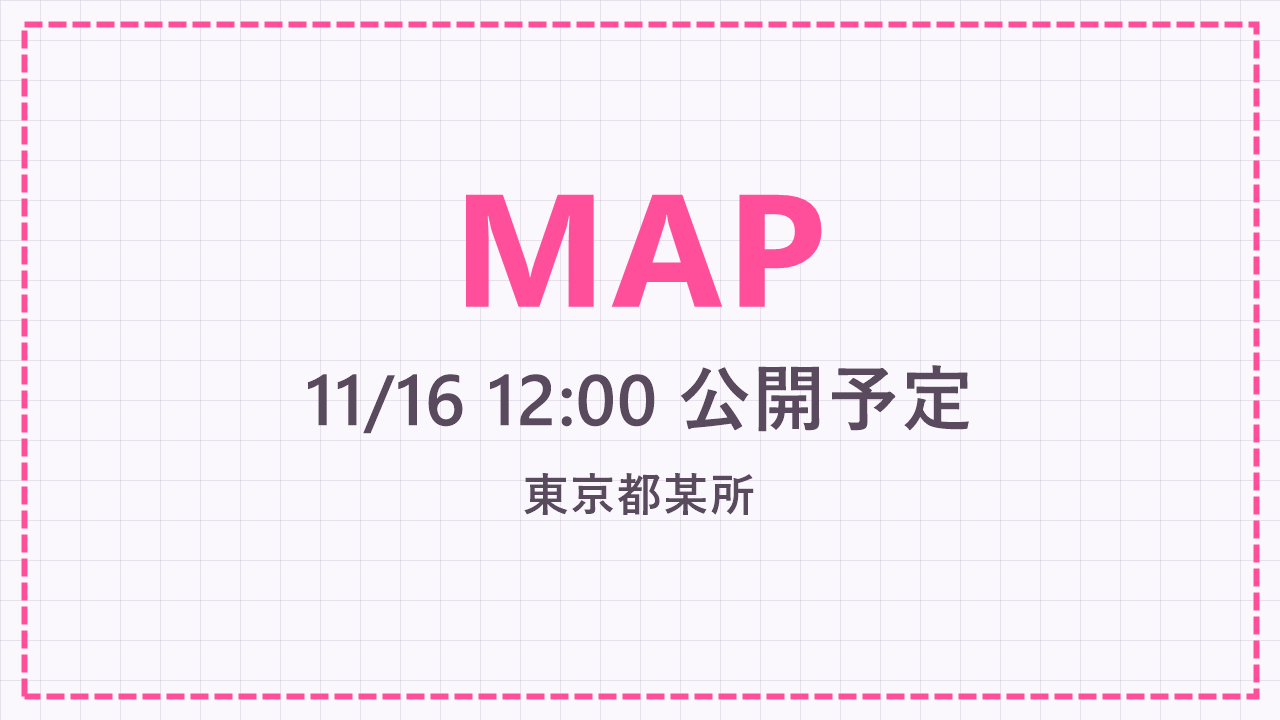
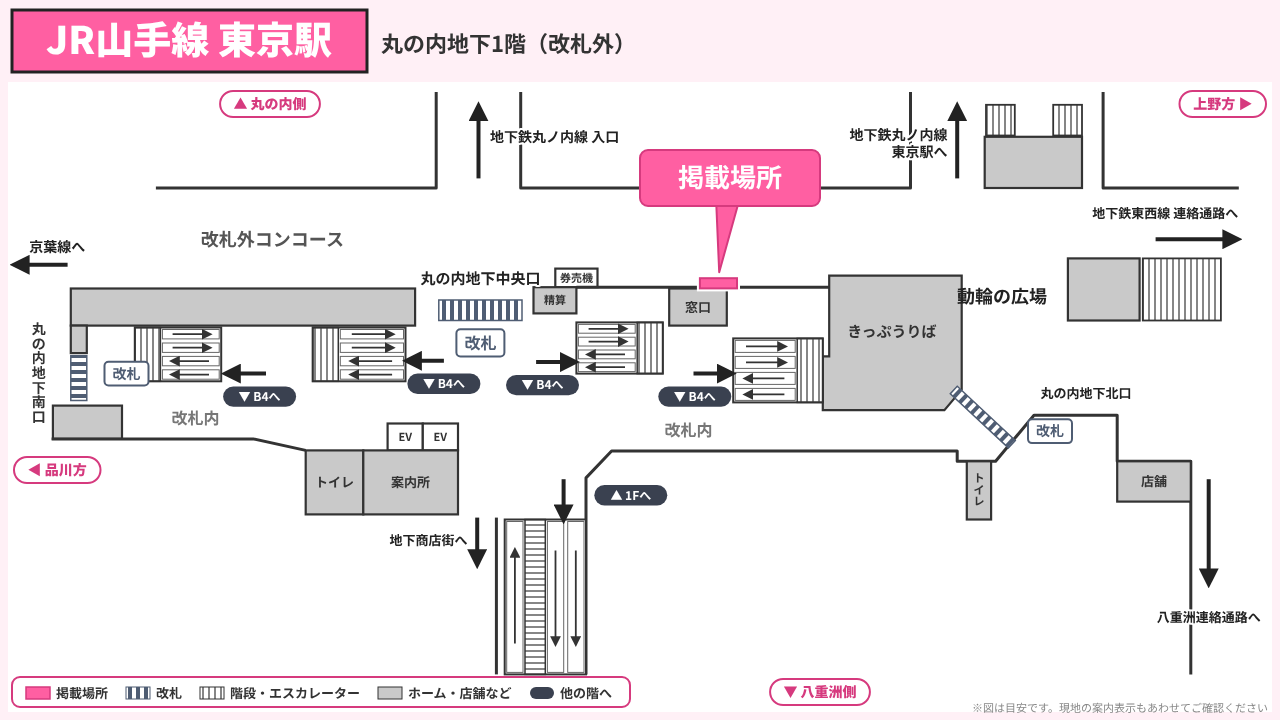
[本番用] 掲出場所の表記・掲出場所マップ・駅広告イラストを本番の内容に戻す
11/16 12:00 以降に main へ取り込む（README_RELEASE.md 参照）。
このコミットとこのブランチは、それまで絶対に push しないこと。

Changed region(s): [[0.0, 0.0, 1.0, 1.0], [0.1562, 0.3056, 0.2812, 0.3667]]

diff --git a/pages/information/index.html b/pages/information/index.html
@@ -56,68 +56,81 @@
   <main>
     <div class="section-head">
       <h1 class="section-head__title"><span aria-hidden="true">📝</span>駅広告などのお知らせ</h1>
-      <p class="section-head__lead">駅広告の掲出期間は以下の通りです！！<br>掲出場所の詳細は、掲出当日（11/16）12:00以降に公開予定です。</p>
+      <p class="section-head__lead">駅広告の掲出場所や掲出期間は以下の通りです！！</p>
     </div>
 
-    <!-- 掲出場所マップ（掲出当日まではプレースホルダー画像） -->
+    <!-- 駅ごとの掲出場所マップ（画像は images/stations/ の同名ファイルを差し替え） -->
+    <!-- 注意書き：改札外（きっぷ不要）は station-card__caution--free、改札内は --ticket -->
     <div class="station-list">
       <figure class="station-card">
         <a class="station-card__zoom" href="../../images/stations/map-kanagawa.png" data-lightbox>
-          <img class="station-card__img" src="../../images/stations/map-kanagawa.png" alt="神奈川県某所の掲出場所マップ（11/16 12:00公開予定）" width="1280" height="720" loading="lazy">
+          <img class="station-card__img" src="../../images/stations/map-kanagawa.png" alt="JR横浜駅の掲出場所マップ（北改札内コンコース）" width="1280" height="720" loading="lazy">
           <span class="station-card__zoom-hint">画像をタップすると拡大できます</span>
         </a>
         <figcaption>
-          <p class="station-card__place">神奈川県某所</p>
+          <p class="station-card__place">JR横浜駅</p>
           <dl class="station-card__info">
             <div>
               <dt>場所</dt>
-              <dd>掲出当日（11/16）12:00以降に公開予定です</dd>
+              <dd>
+                北改札内コンコース（改札内）
+                <span class="station-card__detail">北改札を入った北改札内コンコースの西口側、9・10番線（横須賀線）ホームへのエスカレーター付近の壁面</span>
+              </dd>
             </div>
             <div>
               <dt>日程</dt>
               <dd>2026/11/16～2026/11/22</dd>
             </div>
           </dl>
+          <p class="station-card__caution station-card__caution--ticket">※改札内のため、入場券などが必要です</p>
         </figcaption>
       </figure>
 
       <figure class="station-card">
         <a class="station-card__zoom" href="../../images/stations/map-tokyo.png" data-lightbox>
-          <img class="station-card__img" src="../../images/stations/map-tokyo.png" alt="東京都某所の掲出場所マップ（11/16 12:00公開予定）" width="1280" height="720" loading="lazy">
+          <img class="station-card__img" src="../../images/stations/map-tokyo.png" alt="JR山手線 東京駅の掲出場所マップ（丸の内地下1階）" width="1280" height="720" loading="lazy">
           <span class="station-card__zoom-hint">画像をタップすると拡大できます</span>
         </a>
         <figcaption>
-          <p class="station-card__place">東京都某所</p>
+          <p class="station-card__place">JR山手線 東京駅</p>
           <dl class="station-card__info">
             <div>
               <dt>場所</dt>
-              <dd>掲出当日（11/16）12:00以降に公開予定です</dd>
+              <dd>
+                丸の内地下1階（改札外）
+                <span class="station-card__detail">丸の内地下中央口改札を出て右手、動輪の広場方面へ進んだ窓口側の壁面</span>
+              </dd>
             </div>
             <div>
               <dt>日程</dt>
               <dd>2026/11/16～2026/11/22</dd>
             </div>
           </dl>
+          <p class="station-card__caution station-card__caution--free">※改札外のため、きっぷなしでご覧いただけます</p>
         </figcaption>
       </figure>
 
       <figure class="station-card">
         <a class="station-card__zoom" href="../../images/stations/map-aichi.png" data-lightbox>
-          <img class="station-card__img" src="../../images/stations/map-aichi.png" alt="愛知県某所の掲出場所マップ（11/16 12:00公開予定）" width="1280" height="720" loading="lazy">
+          <img class="station-card__img" src="../../images/stations/map-aichi.png" alt="JR東海 名古屋駅の掲出場所マップ（中央通路）" width="1280" height="720" loading="lazy">
           <span class="station-card__zoom-hint">画像をタップすると拡大できます</span>
         </a>
         <figcaption>
-          <p class="station-card__place">愛知県某所</p>
+          <p class="station-card__place">JR東海 名古屋駅</p>
           <dl class="station-card__info">
             <div>
               <dt>場所</dt>
-              <dd>掲出当日（11/16）12:00以降に公開予定です</dd>
+              <dd>
+                中央通路（改札内）
+                <span class="station-card__detail">中央口改札を入った中央通路、3・4番線と1・2番線の階段の間の壁面（桜通口寄り）</span>
+              </dd>
             </div>
             <div>
               <dt>日程</dt>
               <dd>2026/11/16～2026/11/22</dd>
             </div>
           </dl>
+          <p class="station-card__caution station-card__caution--ticket">※改札内のため、入場券などが必要です</p>
         </figcaption>
       </figure>
     </div>

diff --git a/pages/illust/index.html b/pages/illust/index.html
@@ -4,13 +4,13 @@
   <meta charset="UTF-8">
   <meta name="viewport" content="width=device-width, initial-scale=1">
   <title>駅広告イラスト｜菅叶和応援広告企画2026</title>
-  <meta name="description" content="菅叶和応援広告企画2026｜神奈川県某所・東京都某所・愛知県某所の駅広告イラストを掲載しています。">
+  <meta name="description" content="菅叶和応援広告企画2026｜横浜・東京・名古屋の駅広告イラストを掲載しています。">
 
   <!-- OGP -->
   <meta property="og:type" content="article">
   <meta property="og:site_name" content="菅叶和応援広告企画2026">
   <meta property="og:title" content="駅広告イラスト｜菅叶和応援広告企画2026">
-  <meta property="og:description" content="神奈川県某所・東京都某所・愛知県某所の駅広告イラストを掲載しています。">
+  <meta property="og:description" content="横浜・東京・名古屋の駅広告イラストを掲載しています。">
   <meta property="og:url" content="https://kannkannkikaku.github.io/KannkannBirthday2026/pages/illust/">
   <meta property="og:image" content="https://kannkannkikaku.github.io/KannkannBirthday2026/images/ogp.png">
   <meta name="twitter:card" content="summary_large_image">
@@ -62,25 +62,25 @@
     <!-- 駅ごとのイラスト（画像は images/stations/ の同名ファイルを差し替え） -->
     <div class="station-list">
       <figure class="station-card">
-        <img class="station-card__img" src="../../images/stations/ad-kanagawa.png" alt="神奈川県某所の駅広告イラスト" width="1414" height="1000" loading="lazy">
+        <img class="station-card__img" src="../../images/stations/ad-kanagawa.jpg" alt="JR横浜駅の駅広告イラスト" width="1414" height="1000" loading="lazy">
         <figcaption>
-          <p class="station-card__place">掲出場所：神奈川県某所</p>
+          <p class="station-card__place">掲出場所：JR横浜駅</p>
           <p class="station-card__note">イラスト：<a class="station-card__artist" href="https://x.com/Noginogiro" target="_blank" rel="noopener noreferrer">ノギさん（@Noginogiro）</a></p>
         </figcaption>
       </figure>
 
       <figure class="station-card">
-        <img class="station-card__img" src="../../images/stations/ad-tokyo.png" alt="東京都某所の駅広告イラスト" width="1414" height="1000" loading="lazy">
+        <img class="station-card__img" src="../../images/stations/ad-tokyo.jpg" alt="JR山手線 東京駅の駅広告イラスト" width="1414" height="1000" loading="lazy">
         <figcaption>
-          <p class="station-card__place">掲出場所：東京都某所</p>
+          <p class="station-card__place">掲出場所：JR山手線 東京駅</p>
           <p class="station-card__note">イラスト：<a class="station-card__artist" href="https://x.com/L9525" target="_blank" rel="noopener noreferrer">〆さん（@L9525）</a></p>
         </figcaption>
       </figure>
 
       <figure class="station-card">
-        <img class="station-card__img" src="../../images/stations/ad-aichi.png" alt="愛知県某所の駅広告イラスト" width="1414" height="1000" loading="lazy">
+        <img class="station-card__img" src="../../images/stations/ad-aichi.jpg" alt="JR東海 名古屋駅の駅広告イラスト" width="1414" height="1000" loading="lazy">
         <figcaption>
-          <p class="station-card__place">掲出場所：愛知県某所</p>
+          <p class="station-card__place">掲出場所：JR東海 名古屋駅</p>
           <p class="station-card__note">イラスト：<a class="station-card__artist" href="https://x.com/OihLf" target="_blank" rel="noopener noreferrer">じんさん（@OihLf）</a></p>
         </figcaption>
       </figure>

diff --git a/index.html b/index.html
@@ -64,14 +64,14 @@
     <section class="carousel" aria-roledescription="carousel" aria-label="駅広告イラスト">
       <div class="carousel__viewport">
         <div class="carousel__track">
-          <div class="carousel__slide" role="group" aria-roledescription="slide" aria-label="神奈川県某所の駅広告">
-            <img src="images/stations/ad-kanagawa.png" alt="神奈川県某所の駅広告イラスト（イラスト：ノギさん）" width="1414" height="1000">
+          <div class="carousel__slide" role="group" aria-roledescription="slide" aria-label="JR横浜駅の駅広告">
+            <img src="images/stations/ad-kanagawa.jpg" alt="JR横浜駅の駅広告イラスト（イラスト：ノギさん）" width="1414" height="1000">
           </div>
-          <div class="carousel__slide" role="group" aria-roledescription="slide" aria-label="東京都某所の駅広告">
-            <img src="images/stations/ad-tokyo.png" alt="東京都某所の駅広告イラスト（イラスト：〆さん）" width="1414" height="1000">
+          <div class="carousel__slide" role="group" aria-roledescription="slide" aria-label="JR山手線 東京駅の駅広告">
+            <img src="images/stations/ad-tokyo.jpg" alt="JR山手線 東京駅の駅広告イラスト（イラスト：〆さん）" width="1414" height="1000">
           </div>
-          <div class="carousel__slide" role="group" aria-roledescription="slide" aria-label="愛知県某所の駅広告">
-            <img src="images/stations/ad-aichi.png" alt="愛知県某所の駅広告イラスト（イラスト：じんさん）" width="1414" height="1000">
+          <div class="carousel__slide" role="group" aria-roledescription="slide" aria-label="JR東海 名古屋駅の駅広告">
+            <img src="images/stations/ad-aichi.jpg" alt="JR東海 名古屋駅の駅広告イラスト（イラスト：じんさん）" width="1414" height="1000">
           </div>
         </div>
         <!-- 左右のタップ領域（画像の左右それぞれ約3割） -->

diff --git a/js/main.js b/js/main.js
@@ -30,7 +30,7 @@
   const NEWS = [
     { date: '2026.11.23', text: '駅広告の掲出は終了しました。たくさんのご来場ありがとうございました！' },
     { date: '2026.11.19', text: '菅叶和さん、お誕生日おめでとうございます！🎂' },
-    { date: '2026.11.16', text: '本日から駅広告の掲出がスタート！（神奈川県某所・東京都某所・愛知県某所／〜11/22）' },
+    { date: '2026.11.16', text: '本日から駅広告の掲出がスタート！（横浜・東京・名古屋／〜11/22）' },
     {
       date: '2026.11.16',
       text: `${HASHTAGS.map((t) => `#${t}`).join(' ')} をつけて、お祝いの気持ちをぜひ投稿してください！`,

diff --git a/README.md b/README.md
@@ -32,7 +32,7 @@ scripts/sample_responses.csv 変換の練習用サンプル
 | 誕生日の日付を変える | `js/main.js` の `BIRTHDAY` |
 | カウントダウン欄の切り替え | `js/main.js` の `HB_UNTIL_DAY`（Happy Birthday! を出す最後の日）と `THANKS_TEXT`（その翌日から出すお礼の文）。〜11/18 カウントダウン → 11/19〜22 Happy Birthday! → 11/23〜 お礼 |
 | 特定の日の表示を確認する | トップページのURLの末尾に `?preview-date=2026-11-19`（時刻まで指定するなら `?preview-date=2026-11-18T23:59:50`）を付けて開く |
-| 駅広告イラストを差し替える | `images/stations/ad-kanagawa.png`・`ad-tokyo.png`・`ad-aichi.png` を同じファイル名で上書き |
+| 駅広告イラストを差し替える | `images/stations/ad-kanagawa.jpg`・`ad-tokyo.jpg`・`ad-aichi.jpg` を同じファイル名で上書き |
 | 掲出場所マップを差し替える | `images/stations/map-kanagawa.png`・`map-tokyo.png`・`map-aichi.png`。掲出当日まではプレースホルダー画像です（本物のマップは公開リポジトリに置かない） |
 | トップの駅広告スライドショー | 画像は上と同じファイルを共有。並び順は `index.html` の `carousel__slide` の順、切り替え間隔は `js/main.js` の `CAROUSEL_INTERVAL`（ミリ秒） |
 | 掲出場所・日程・イラストレーター名を変える | `pages/illust/index.html`・`pages/information/index.html` の各 `station-card` |
